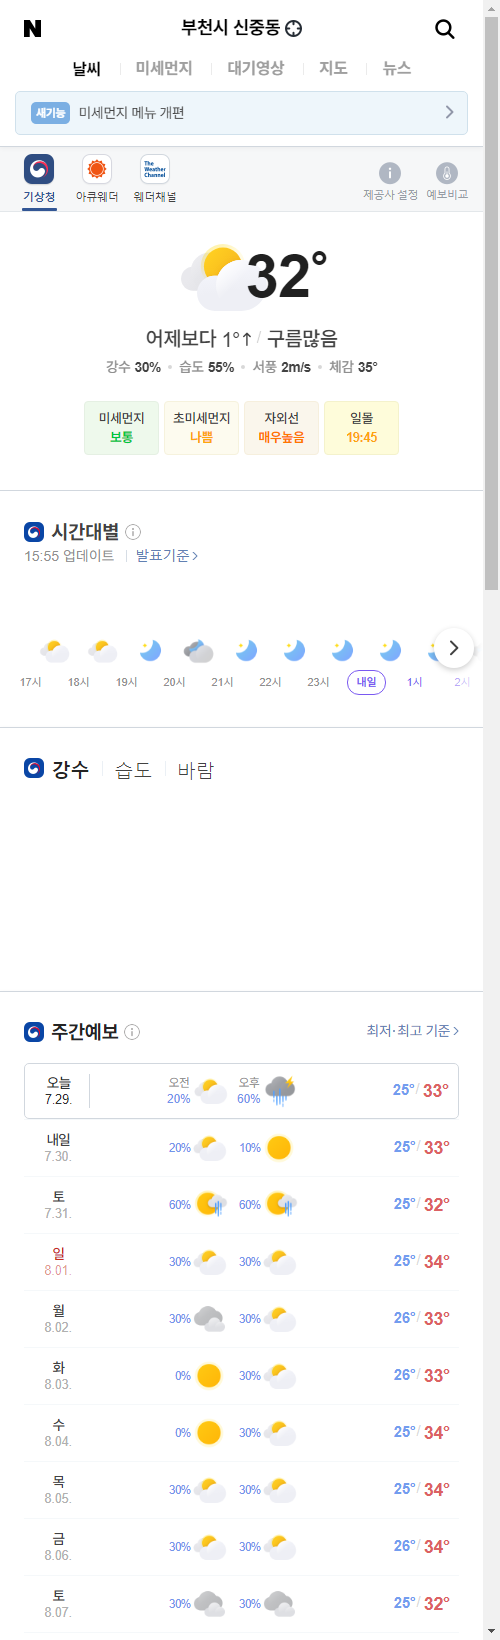
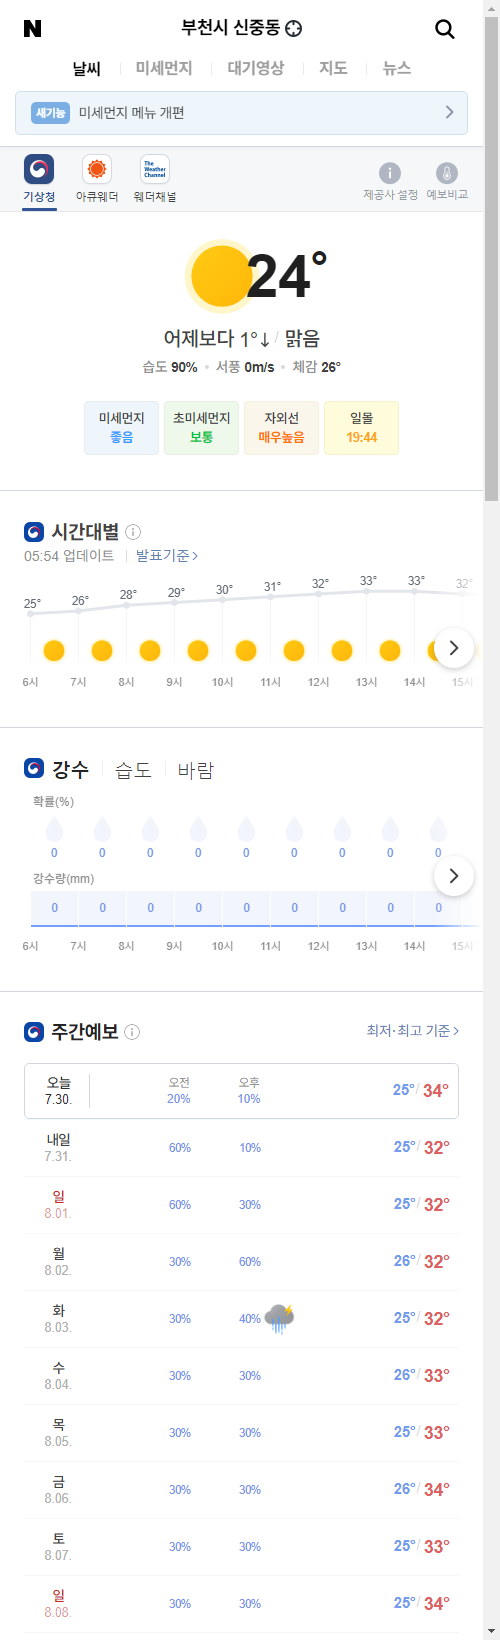
update result

diff --git a/README.md b/README.md
@@ -1,5 +1,5 @@
-##  2021-07-29 16:02:53   목요일 
-##### 날씨   -   어제보다 1° 높아요구름많음  
+##  2021-07-30 05:55:36   금요일 
+##### 날씨   -   어제보다 1° 낮아요맑음  
 <center><img src="../img/naver_weather_week.png"></center>
 ----
 ----
@@ -13,17 +13,17 @@
 ##### 세계
 <table border="1" bordercolor="blue" align = "center" >
 <tr align = "right" > <td>Item</td><td>Point</td><td>Diff</td><td>Rate</td><td>Buy</td><td>Sell</td><td>...</td>  </tr>
-<tr align = "right" > <td>DOW</td><td>34,930.93</td><td>-127.59</td><td><font size="3" color="blue" >-0.36%</font></td><td><font size="3" color="black">0</font></td><td><font size="3" color="black">0</font></td><td>0</td>  </tr>
-<tr align = "right" > <td>NASDAQ</td><td>14,762.58</td><td>102.0</td><td><font size="3" color="red" >0.7%</font></td><td><font size="3" color="black">0</font></td><td><font size="3" color="black">0</font></td><td>0</td>  </tr>
-<tr align = "right" > <td>S&P</td><td>4,400.64</td><td>-0.82</td><td><font size="3" color="blue" >-0.02%</font></td><td><font size="3" color="black">0</font></td><td><font size="3" color="black">0</font></td><td>0</td>  </tr>
-<tr align = "right" > <td>SHANHAI</td><td>3,404.89</td><td>43.3</td><td><font size="3" color="red" >1.29%</font></td><td><font size="3" color="black">0</font></td><td><font size="3" color="black">0</font></td><td>0</td>  </tr>
-<tr align = "right" > <td>INDIA</td><td>52,654.17</td><td>210.46</td><td><font size="3" color="red" >0.4%</font></td><td><font size="3" color="black">0</font></td><td><font size="3" color="black">0</font></td><td>0</td>  </tr>
+<tr align = "right" > <td>DOW</td><td>35,084.53</td><td>153.6</td><td><font size="3" color="red" >0.44%</font></td><td><font size="3" color="black">0</font></td><td><font size="3" color="black">0</font></td><td>0</td>  </tr>
+<tr align = "right" > <td>NASDAQ</td><td>14,778.26</td><td>15.68</td><td><font size="3" color="red" >0.11%</font></td><td><font size="3" color="black">0</font></td><td><font size="3" color="black">0</font></td><td>0</td>  </tr>
+<tr align = "right" > <td>S&P</td><td>4,419.15</td><td>18.51</td><td><font size="3" color="red" >0.42%</font></td><td><font size="3" color="black">0</font></td><td><font size="3" color="black">0</font></td><td>0</td>  </tr>
+<tr align = "right" > <td>SHANHAI</td><td>3,411.72</td><td>50.13</td><td><font size="3" color="red" >1.49%</font></td><td><font size="3" color="black">0</font></td><td><font size="3" color="black">0</font></td><td>0</td>  </tr>
+<tr align = "right" > <td>INDIA</td><td>52,653.07</td><td>209.36</td><td><font size="3" color="red" >0.4%</font></td><td><font size="3" color="black">0</font></td><td><font size="3" color="black">0</font></td><td>0</td>  </tr>
 </table>
 ----
 ##### 시장
 <table border="1" bordercolor="blue" align = "center" >
 <tr align = "right" > <td>Item</td><td>Price</td><td>Diff</td><td>Rate</td><td>Buy</td><td>Sell</td><td>...</td>  </tr>
-<tr align = "right" > <td>USD</td><td>1,147.0</td><td>-7.0</td><td><font size="3" color="blue">-0.61%</font></td><td><font size="3" color="black">1,110</font></td><td><font size="3" color="black">0</font></td><td>0</td>  </tr>
+<tr align = "right" > <td>USD</td><td>1,146.0</td><td>-7.5</td><td><font size="3" color="blue">-0.65%</font></td><td><font size="3" color="black">1,110</font></td><td><font size="3" color="black">0</font></td><td>0</td>  </tr>
 <tr align = "right" > <td>WTI</td><td>72.39</td><td>0.74</td><td><font size="3" color="red">1.03%</font></td><td><font size="3" color="black">29.0</font></td><td><font size="3" color="black">0</font></td><td>0</td>  </tr>
 <tr align = "right" > <td>GOLD</td><td>1,799.0</td><td>0.1</td><td><font size="3" color="black">0%</font></td><td><font size="3" color="black">0</font></td><td><font size="3" color="black">0</font></td><td>0</td>  </tr>
 </table>
